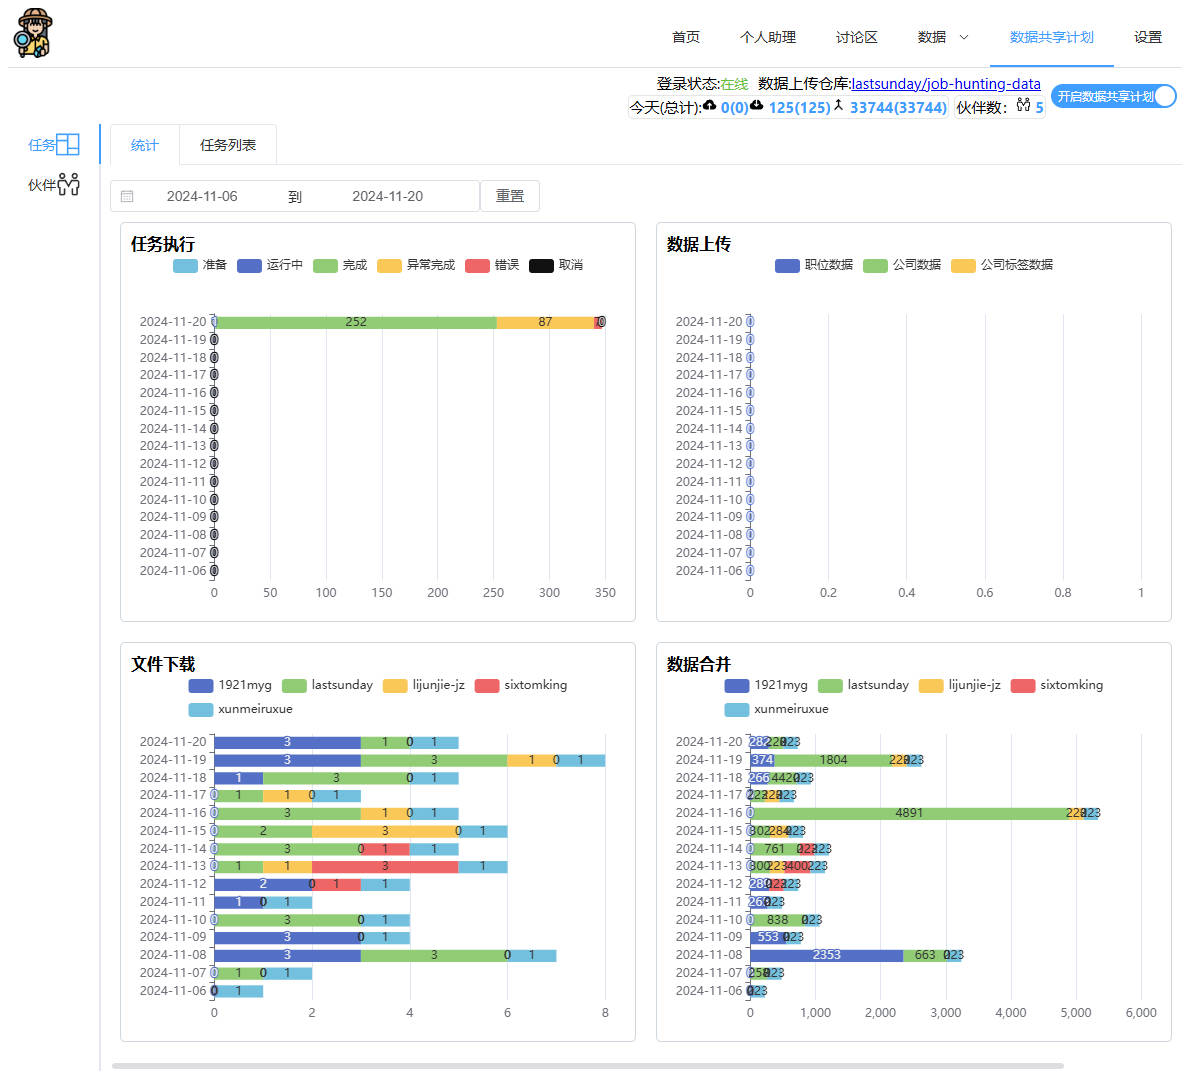
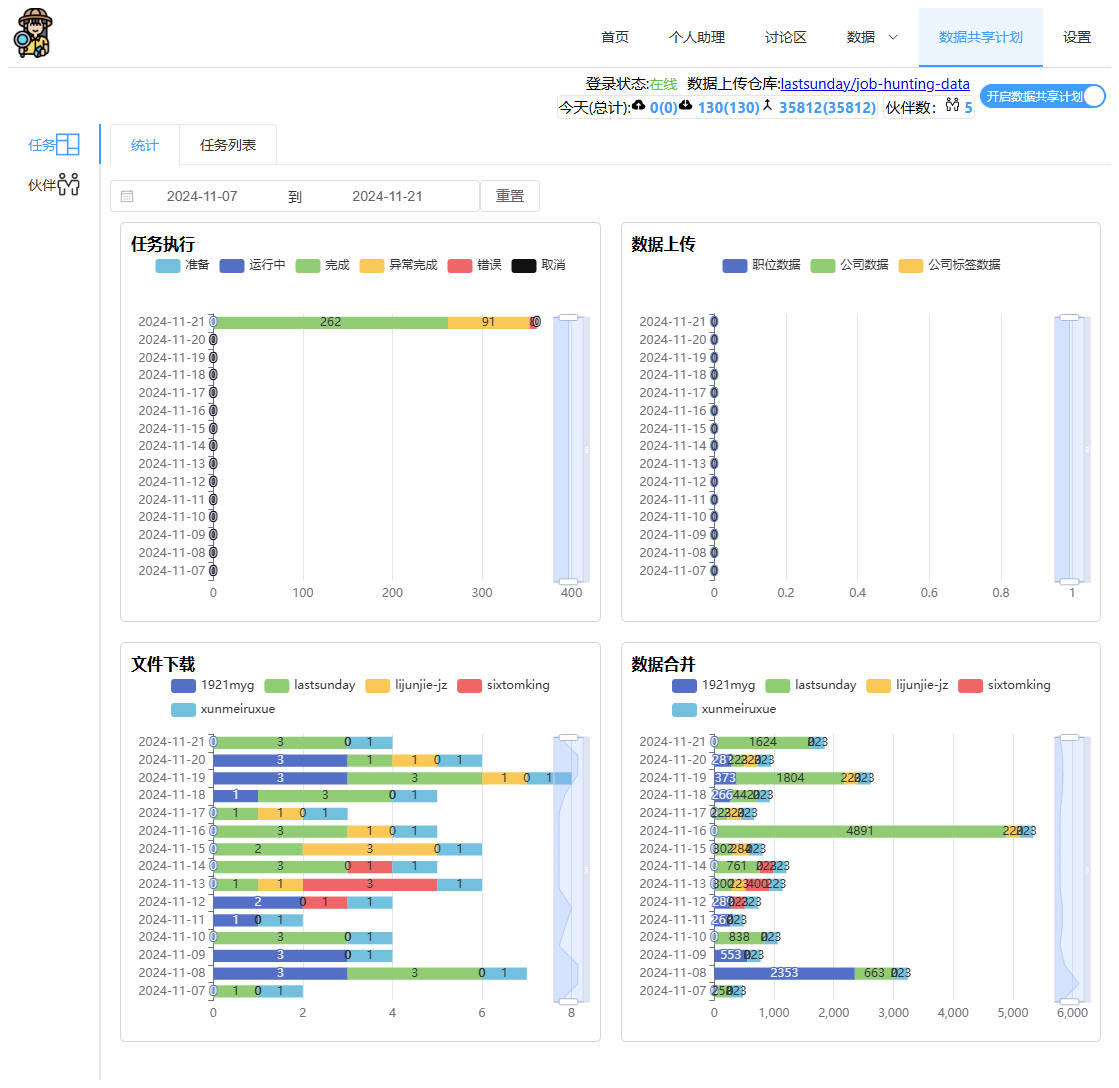
docs: add some chart pic and chart desc

diff --git a/README.md b/README.md
@@ -36,7 +36,15 @@
 8. 数据备份，数据恢复。
 9. 职位评论，公司评论。（当前采用 GitHub Issues 作为评论平台，请遵守相关法律法规合法留言）
 10. 数据统计图表
-    1. 根据指定搜索条件统计薪酬区间职位数（薪酬计算方式：(最低薪资+最高薪资)/2）
+    1. 职位发布时间分析(按月)
+    2. 职位发布时间分析(按周)
+    3. 职位发布时间分析(按日)
+    4. 职位发布时间分析(按小时)
+    5. 职位发布平台分析
+    6. 公司成立年份分段分析
+    7. 公司社保人数分段分析
+    8. 根据指定搜索条件统计薪酬区间职位数（薪酬计算方式：(最低薪资+最高薪资)/2）
+    9. 数据共享任务（任务执行，数据上传，文件下载，数据合并）
 11. 公司自定义标签（可添加，修改，拖拽排序），内置外包公司标签数据，公司标签数据管理页面，公司标签数据导出，导入。
 12. 职位自定义标签（可添加，修改，拖拽排序），职位标签数据管理页面，职位标签数据导出，导入。
 13. 公司数据管理页面，公司数据导出，导入，地图模式。
